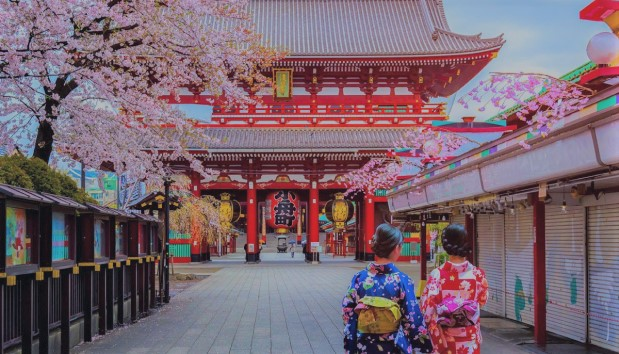
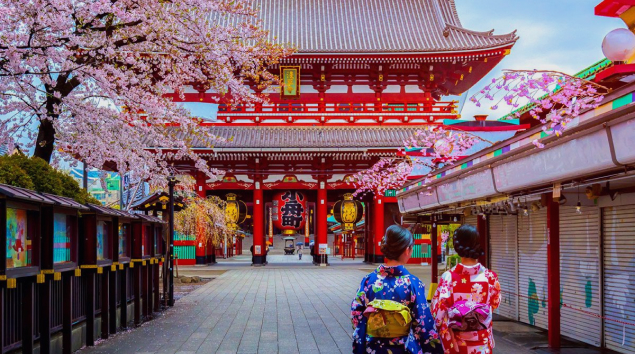
Correction of color in trip blocks, reduction of transparency, additional grid and photo for the block

diff --git a/ccs/style.css b/ccs/style.css
@@ -856,7 +856,7 @@ img {
   content: "";
   width: 100%;
   height: 100%;
-  background-color: rgba(21, 24, 36, 0.4);
+  background-color: rgba(21, 24, 36, 0.2);
   position: absolute;
   top: 0;
   left: 0;
